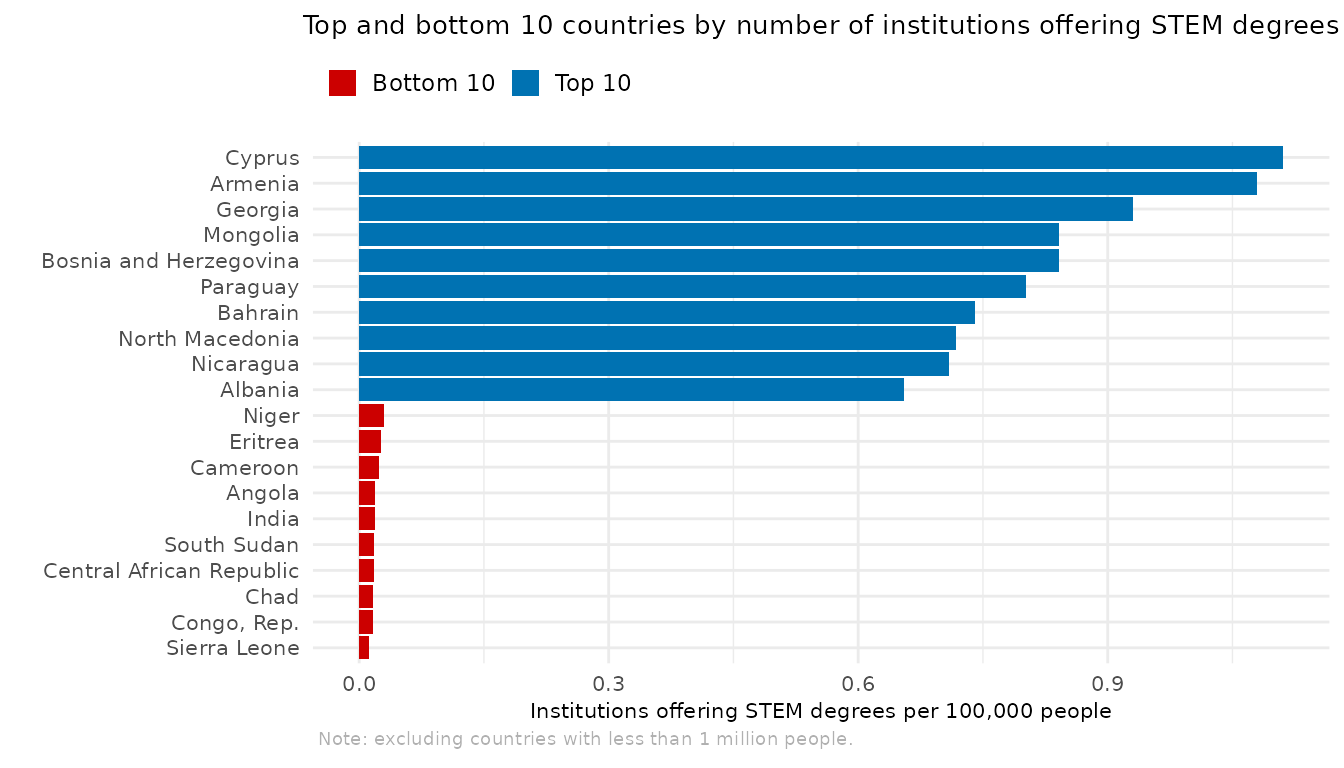
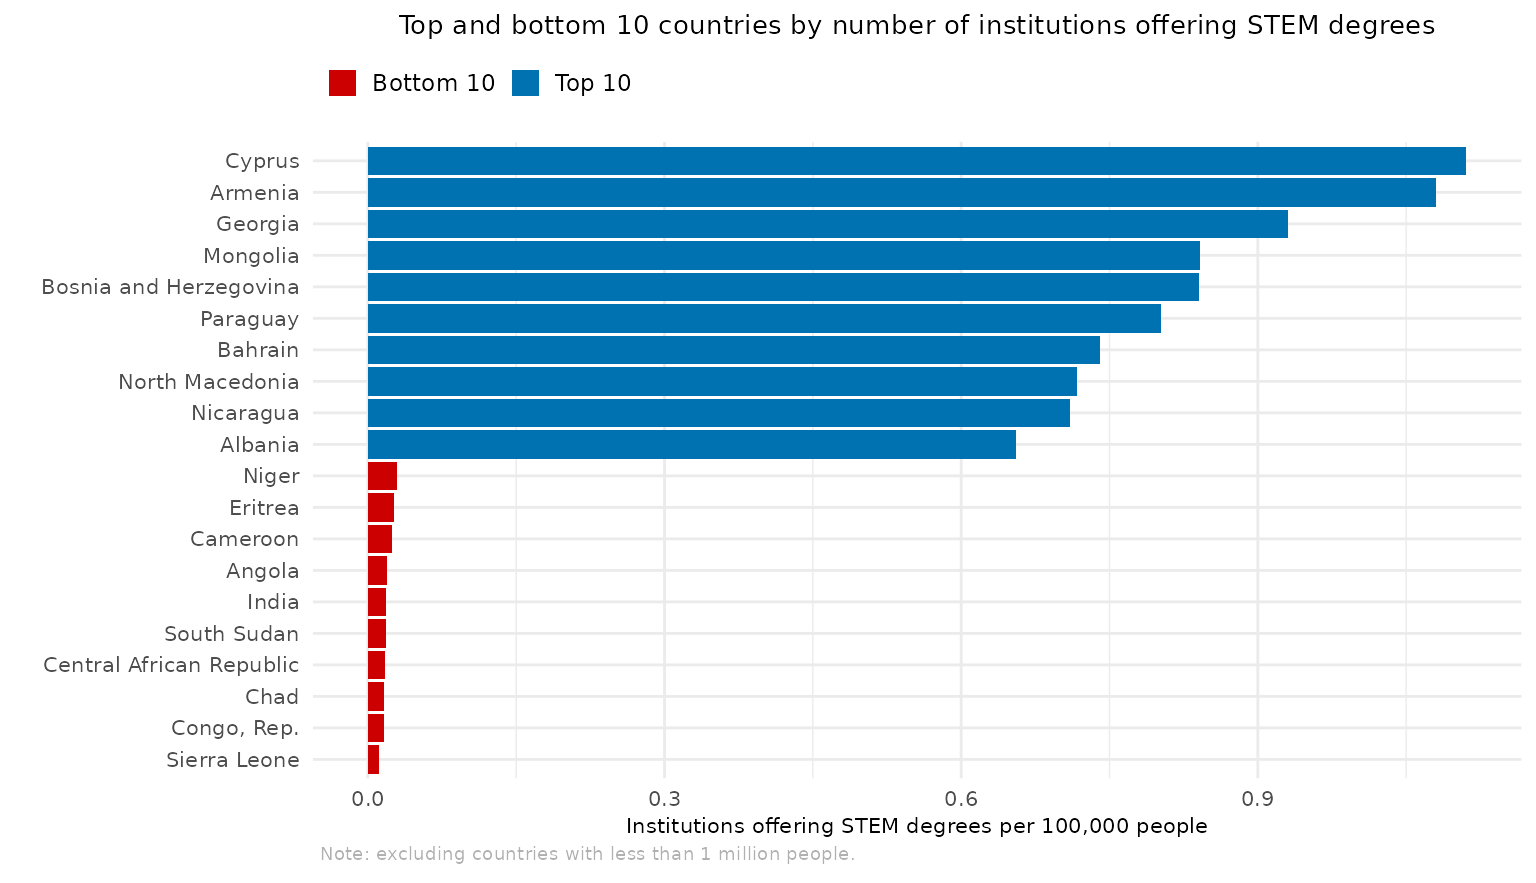
Deploying to gh-pages from @ pablogguz/whed@068526b8b8fefba71c0716498ed3af21a1d0b652 🚀

Changed region(s): [[0.0312, 0.1562, 0.9688, 0.9062], [0.2188, 0.0, 1.0, 0.125], [0.2188, 0.875, 0.8438, 0.9688]]

diff --git a/articles/whed.html b/articles/whed.html
@@ -111,7 +111,7 @@ institutions across 181 countries.</p>
 </h2>
 <p>We can look at which are the countries with the highest and lowest
 number of institutions offering STEM degrees per capita:</p>
-<p><img src="whed_files/figure-html/stem-show-1.png" width="672"></p>
+<p><img src="whed_files/figure-html/stem-show-1.png" width="768"></p>
 </div>
   </main><aside class="col-md-3"><nav id="toc"><h2>On this page</h2>
     </nav></aside>
